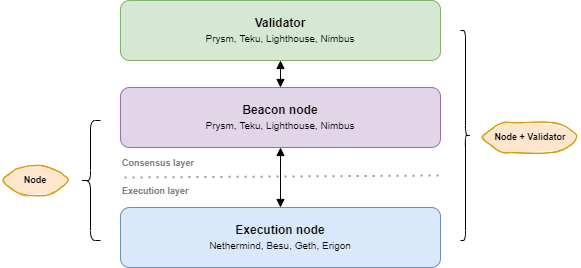
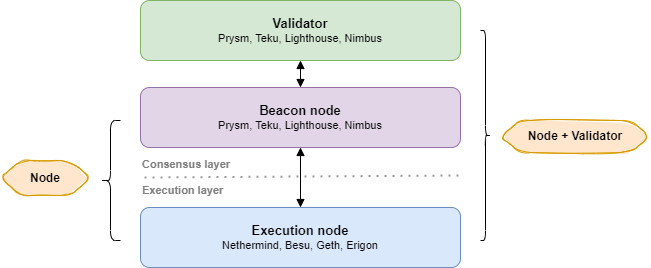
image

diff --git a/website/docs/install/install-with-script.md b/website/docs/install/install-with-script.md
@@ -81,7 +81,7 @@ Validators connect to beacon nodes, and beacon nodes connect to execution nodes:
 <br />
 
 
-<img style={{width: 100 + '%', margin: 'auto', display: 'block', maxWidth: 581 + 'px'}} src={ClientStackPng} /> 
+<img style={{width: 100 + '%', margin: 'auto', display: 'block', maxWidth: 651 + 'px'}} src={ClientStackPng} /> 
 
 
 <br />
